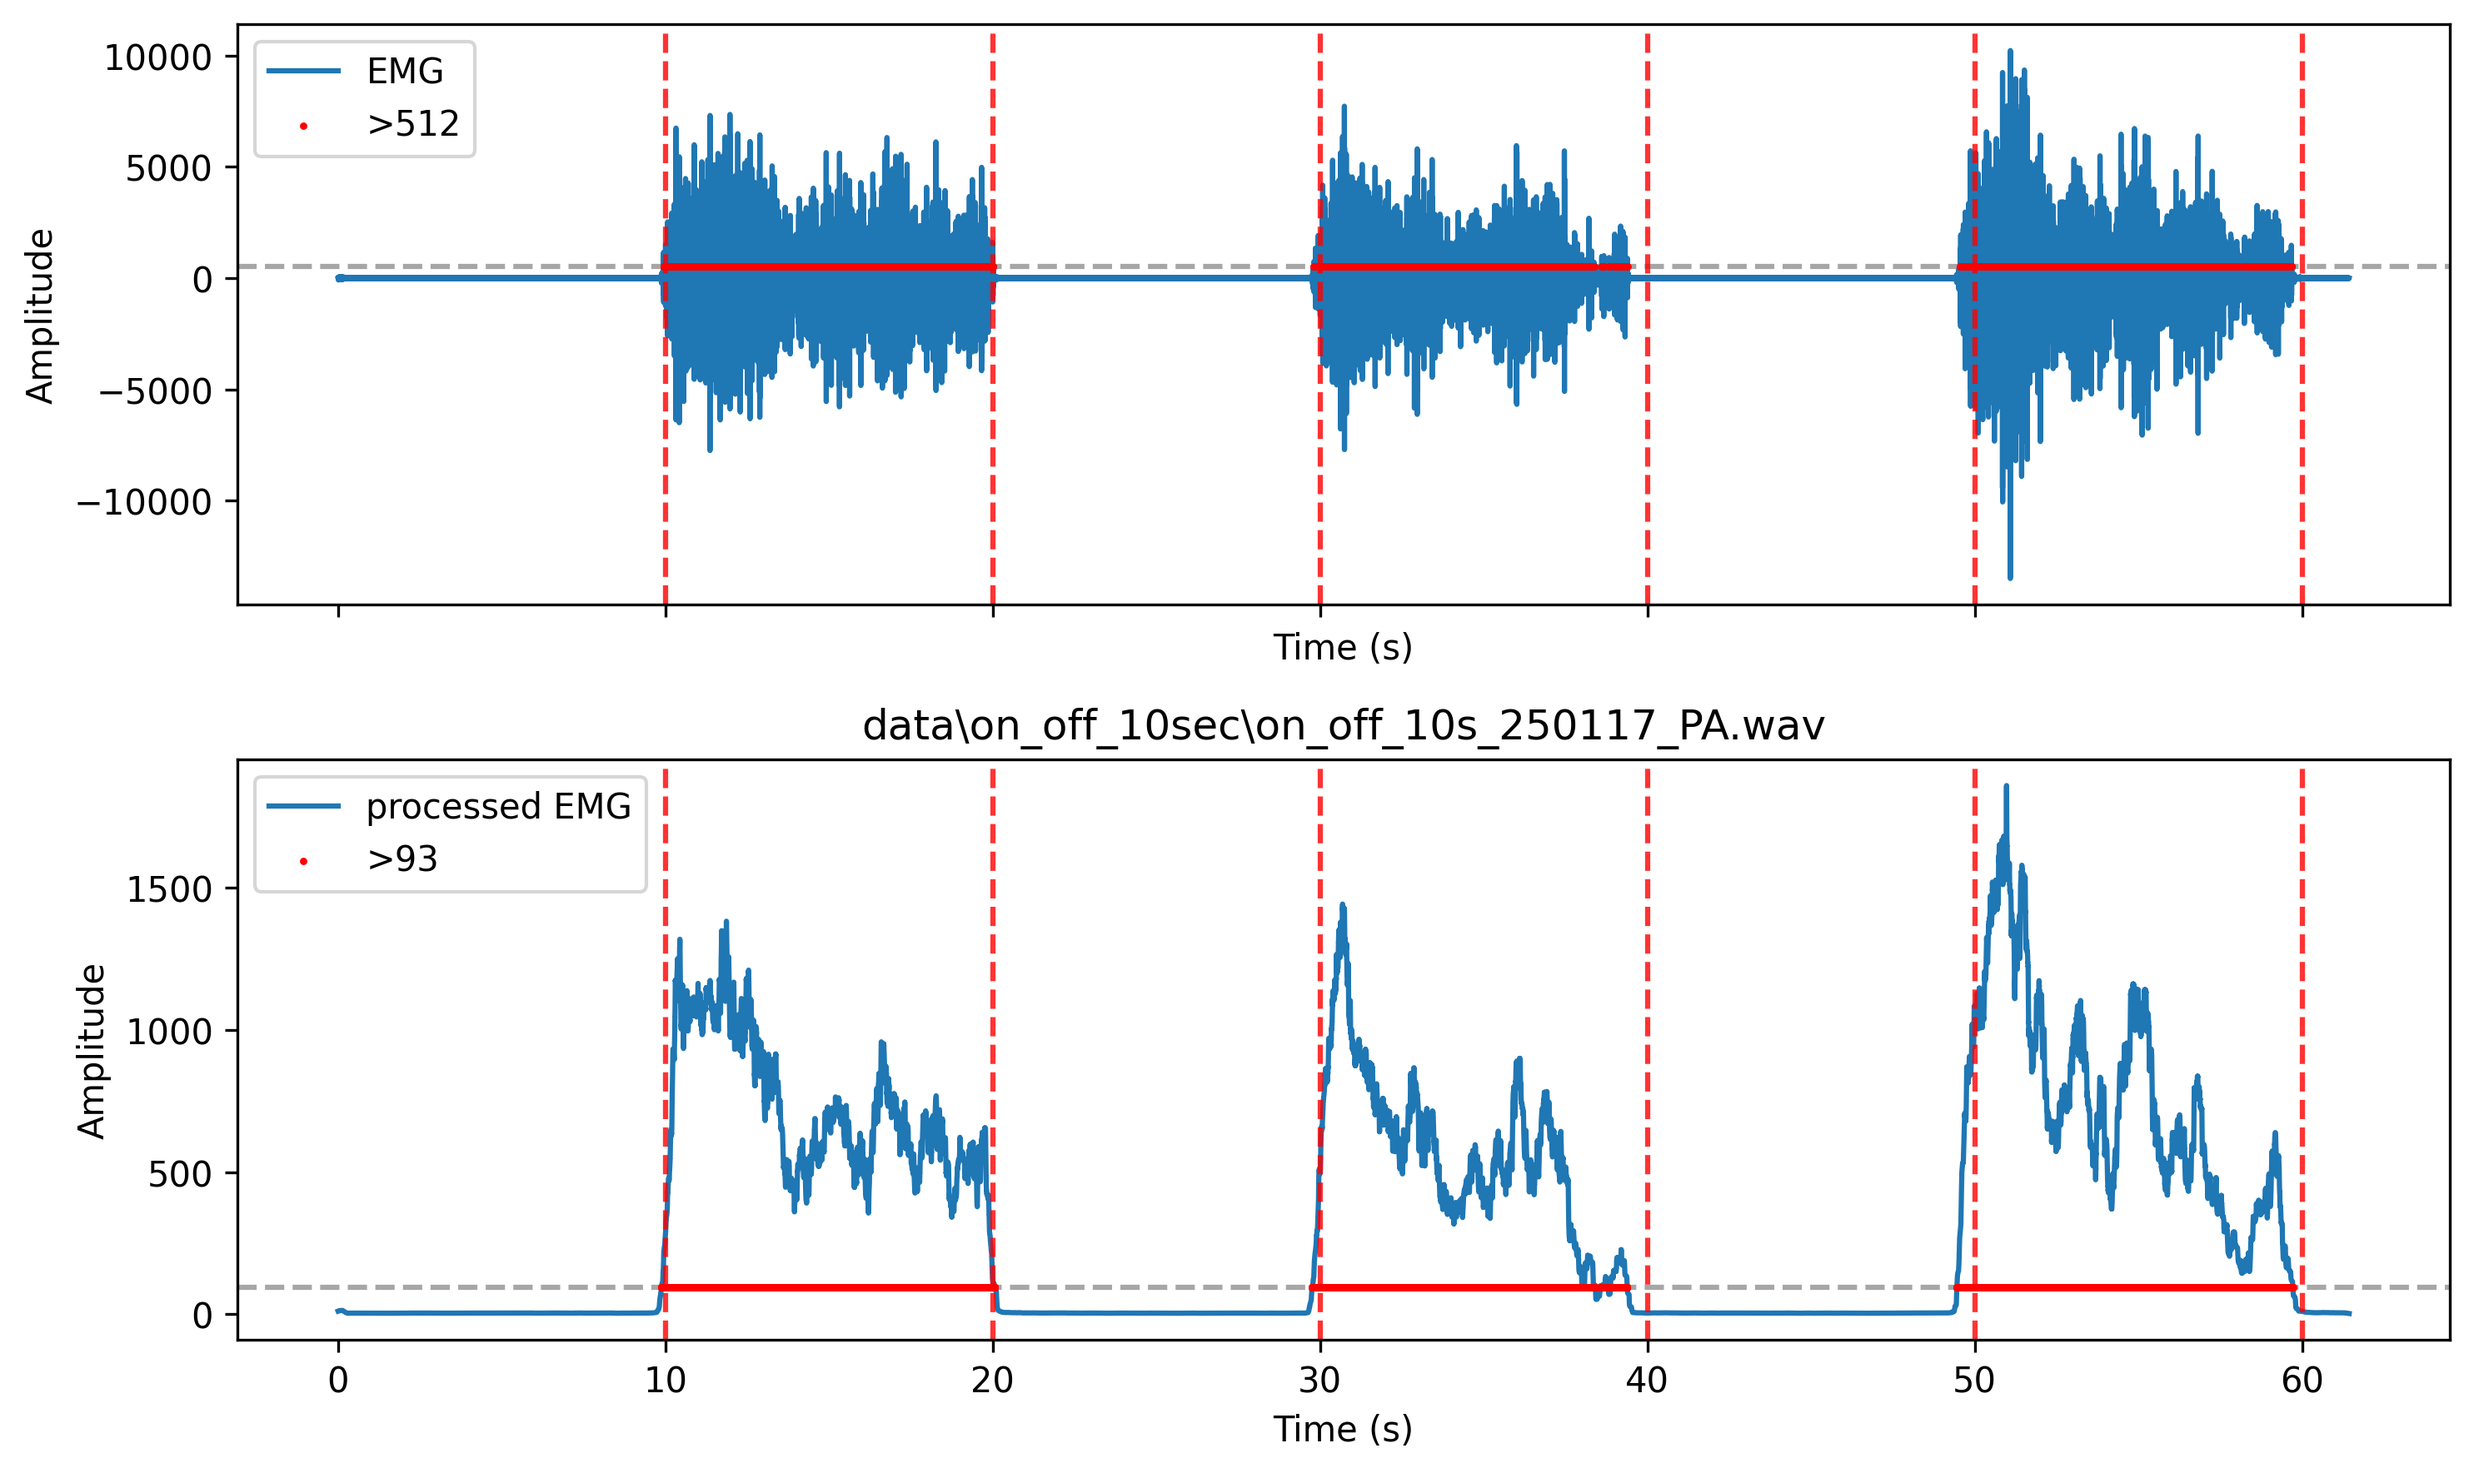
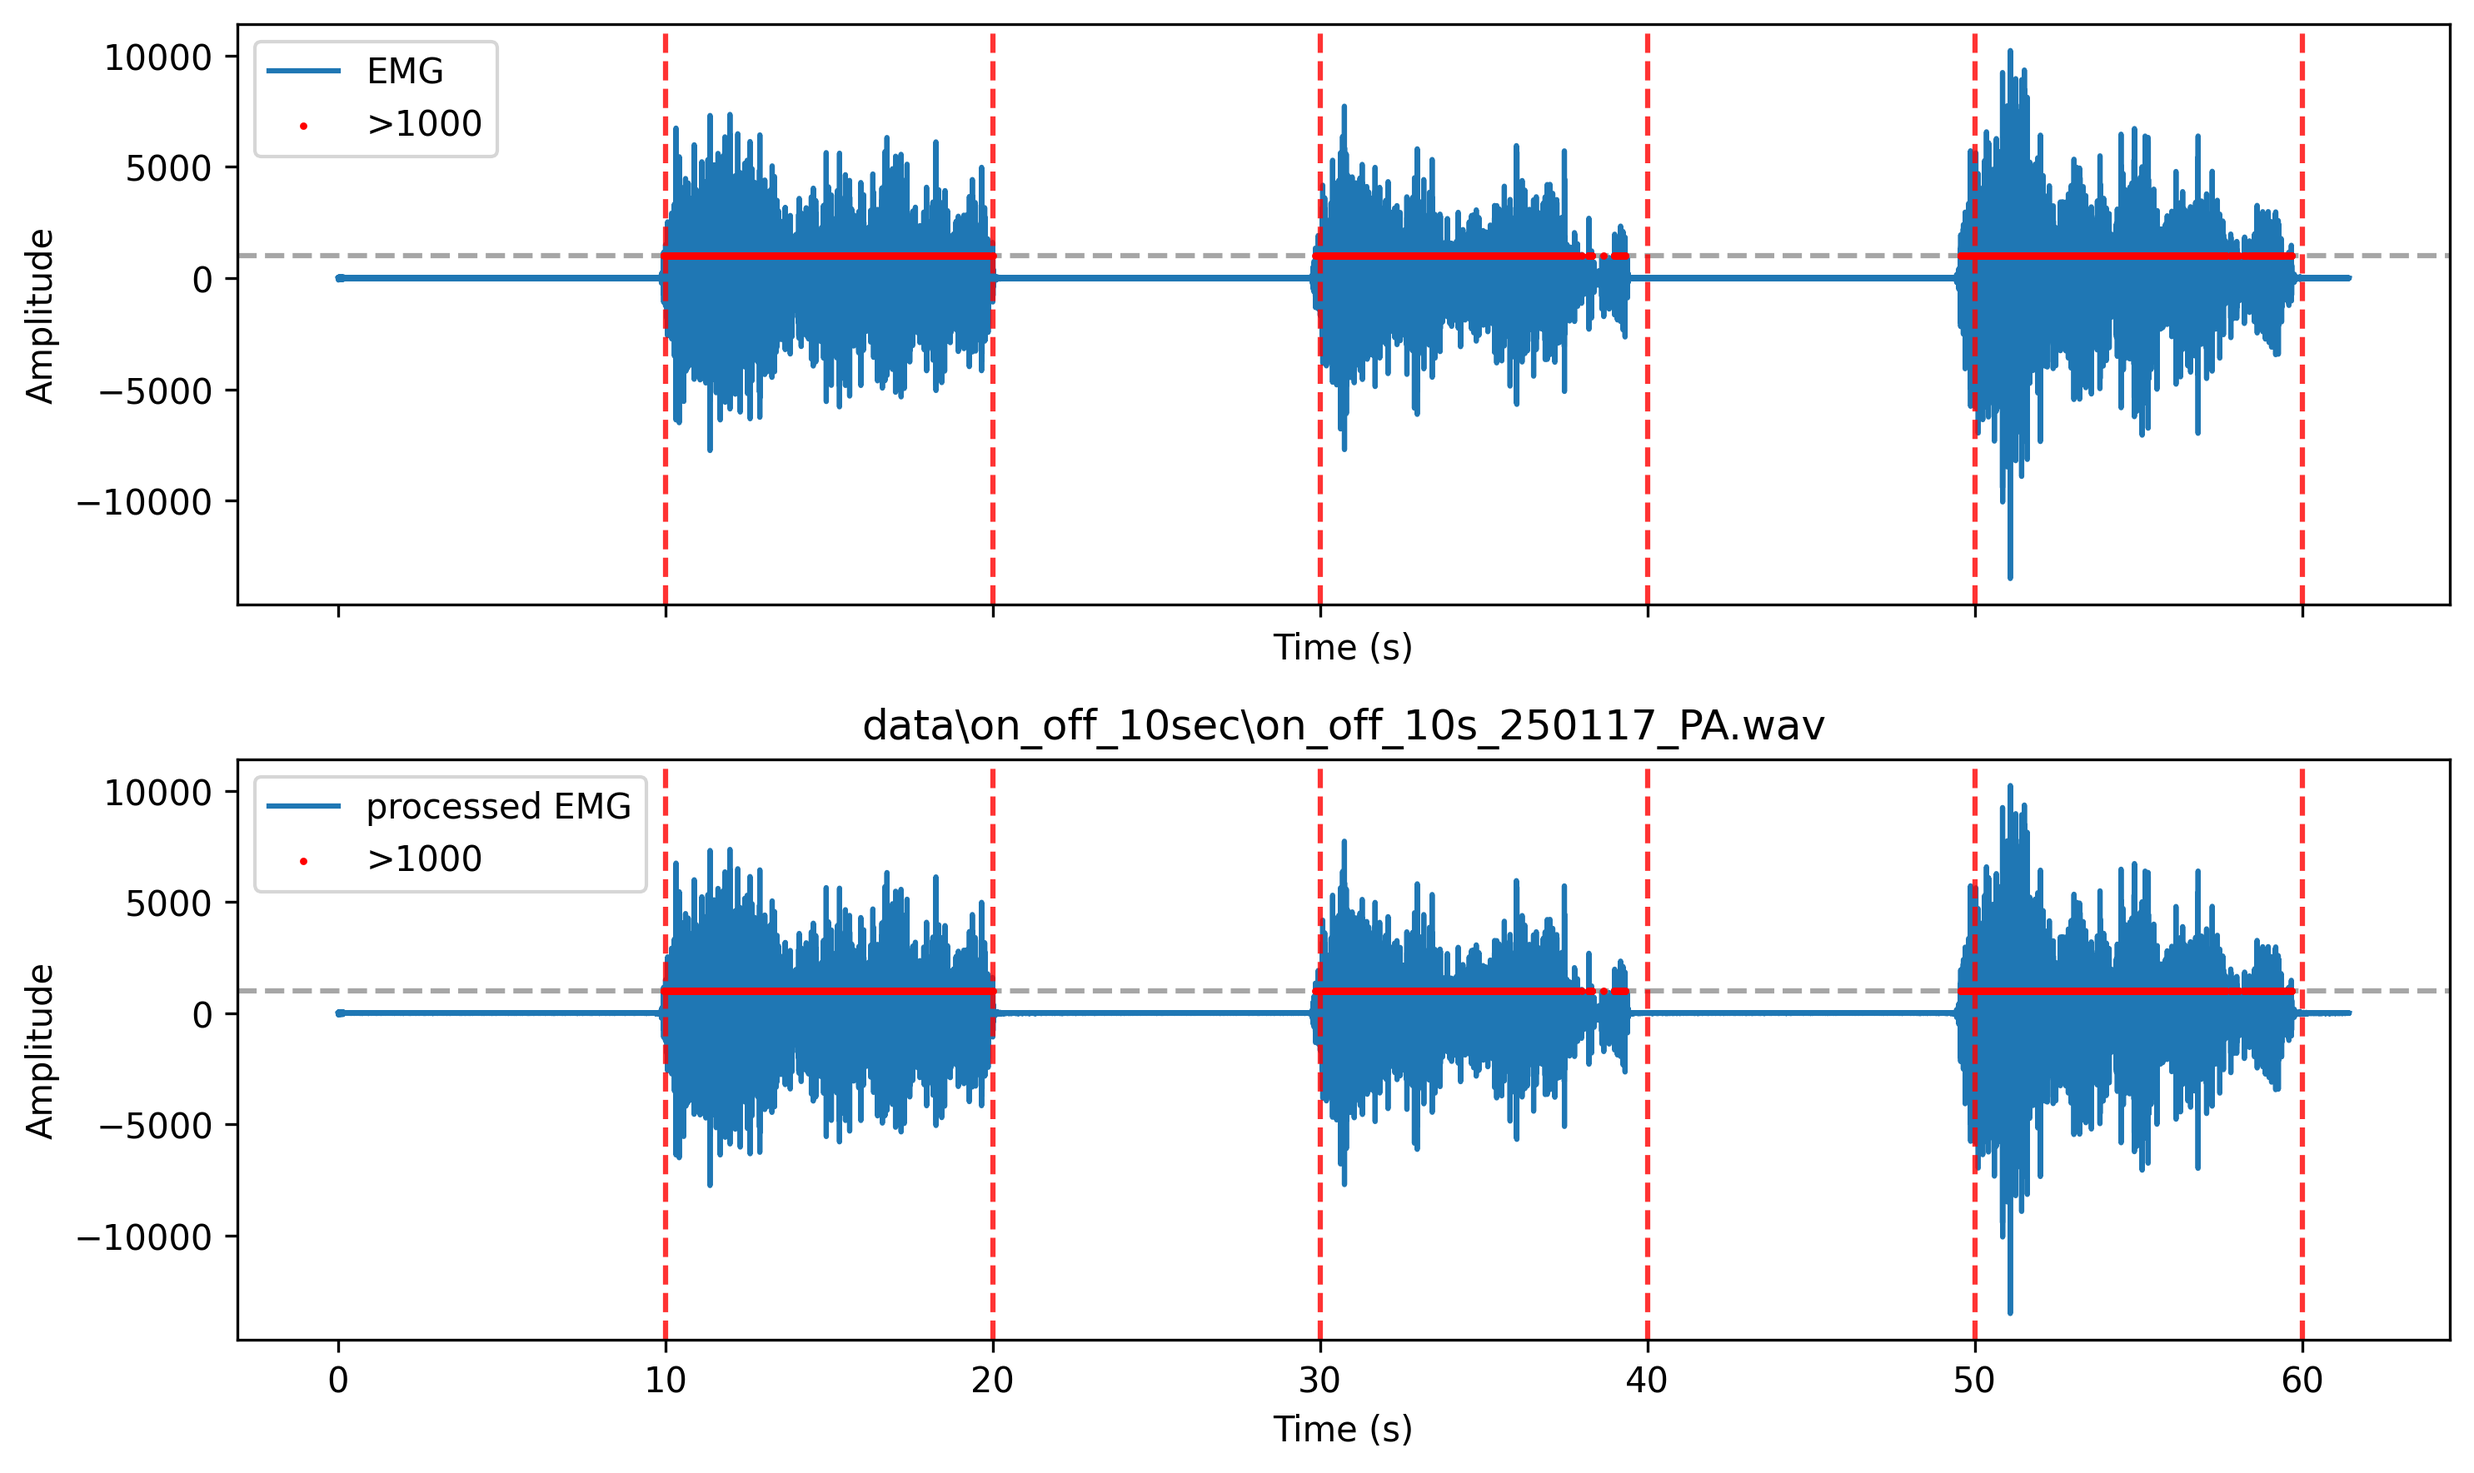
finalize template for u3.2

diff --git a/code/u3.2_preprocess_EMG.py b/code/u3.2_preprocess_EMG.py
@@ -37,23 +37,15 @@ def plot_wav_with_timestamps(wav_path, events_path, event_id="2"):
     events_to_plot = [events[0] + 10 * i for i in range(6)]
     
     # rectify and smooth data
-    data_abs=np.abs(data)
-    window_size = 501
-    kernel = np.ones(window_size) / window_size
-    data_smooth = np.convolve(data_abs, kernel, mode='same')
-    # data_smooth = medfilt(data_abs, kernel_size=window_size)
-
-    processed_data = data_smooth
+    # ADD code here
+    processed_data = data
 
     # find appropriate threshold and find indices where data crosses threshold
-    threshold = 0.05*np.max(data)
+    threshold = 1000
     mask = data > threshold
 
-    proc_threshold = 0.05*np.max(processed_data)
+    proc_threshold = 1000
     proc_mask = processed_data > proc_threshold
-
-    # this creates a mask based on time 
-    # mask = (time_axis >= events_to_plot[0]) & (time_axis <= events_to_plot[1])
 
     # plot the EMG waveform
 
